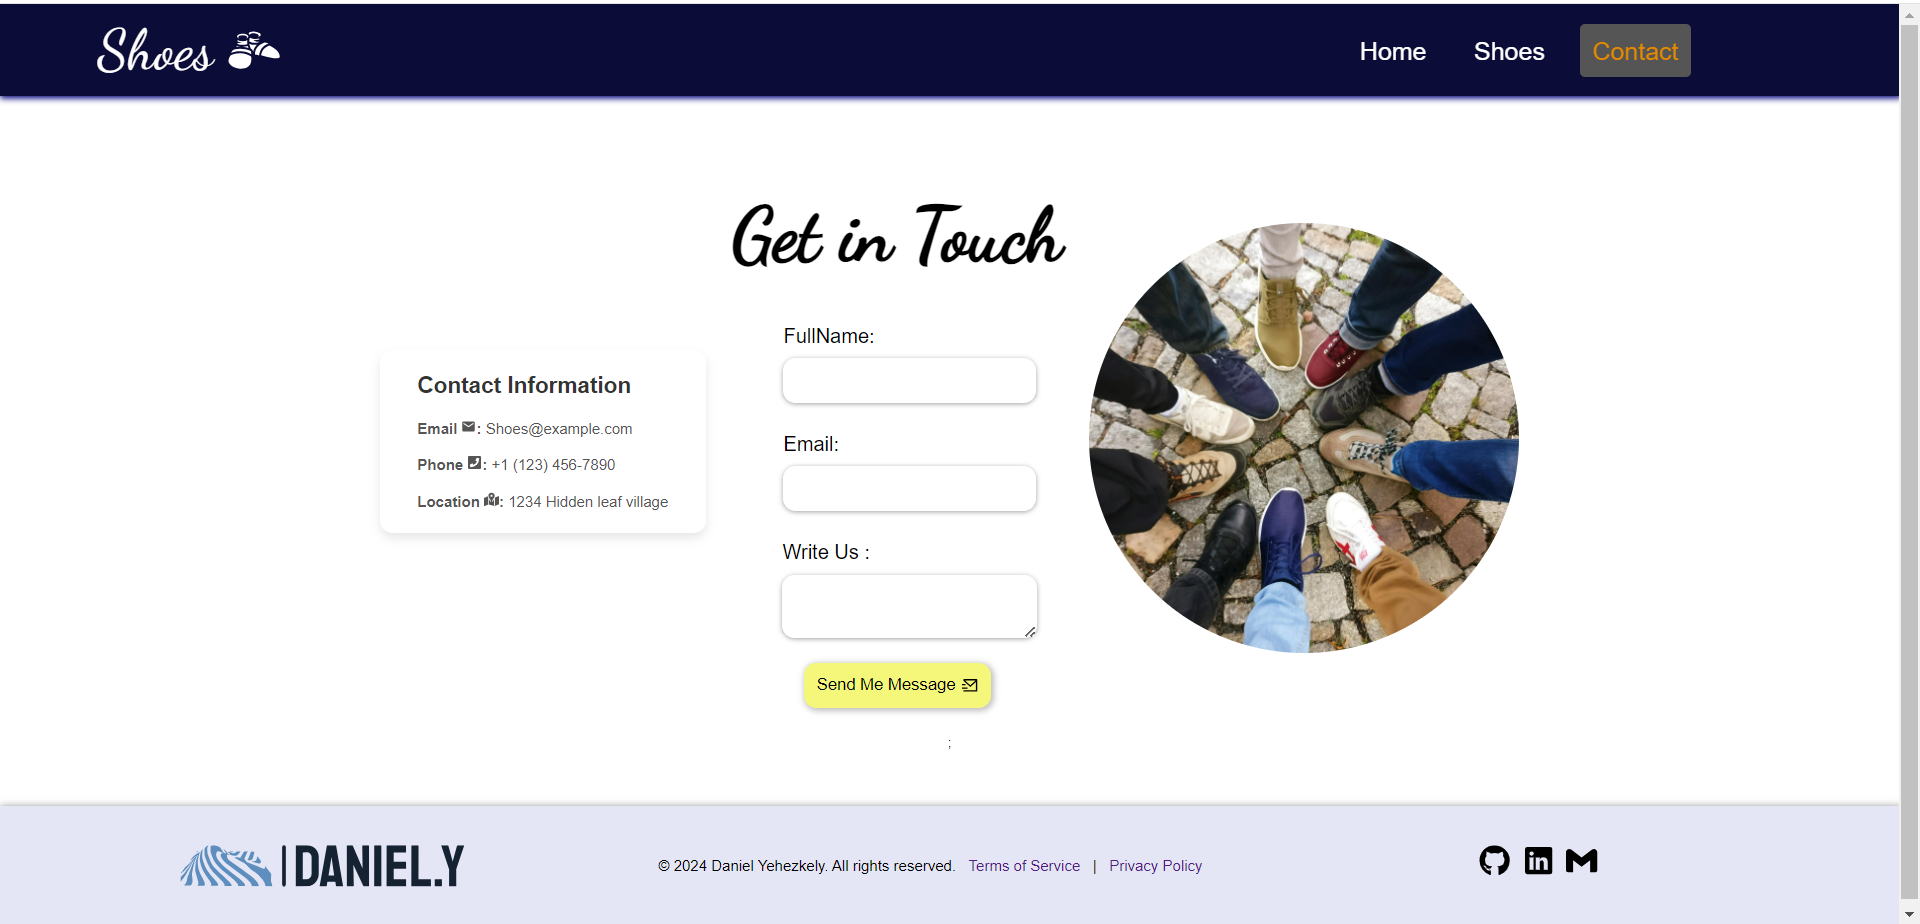
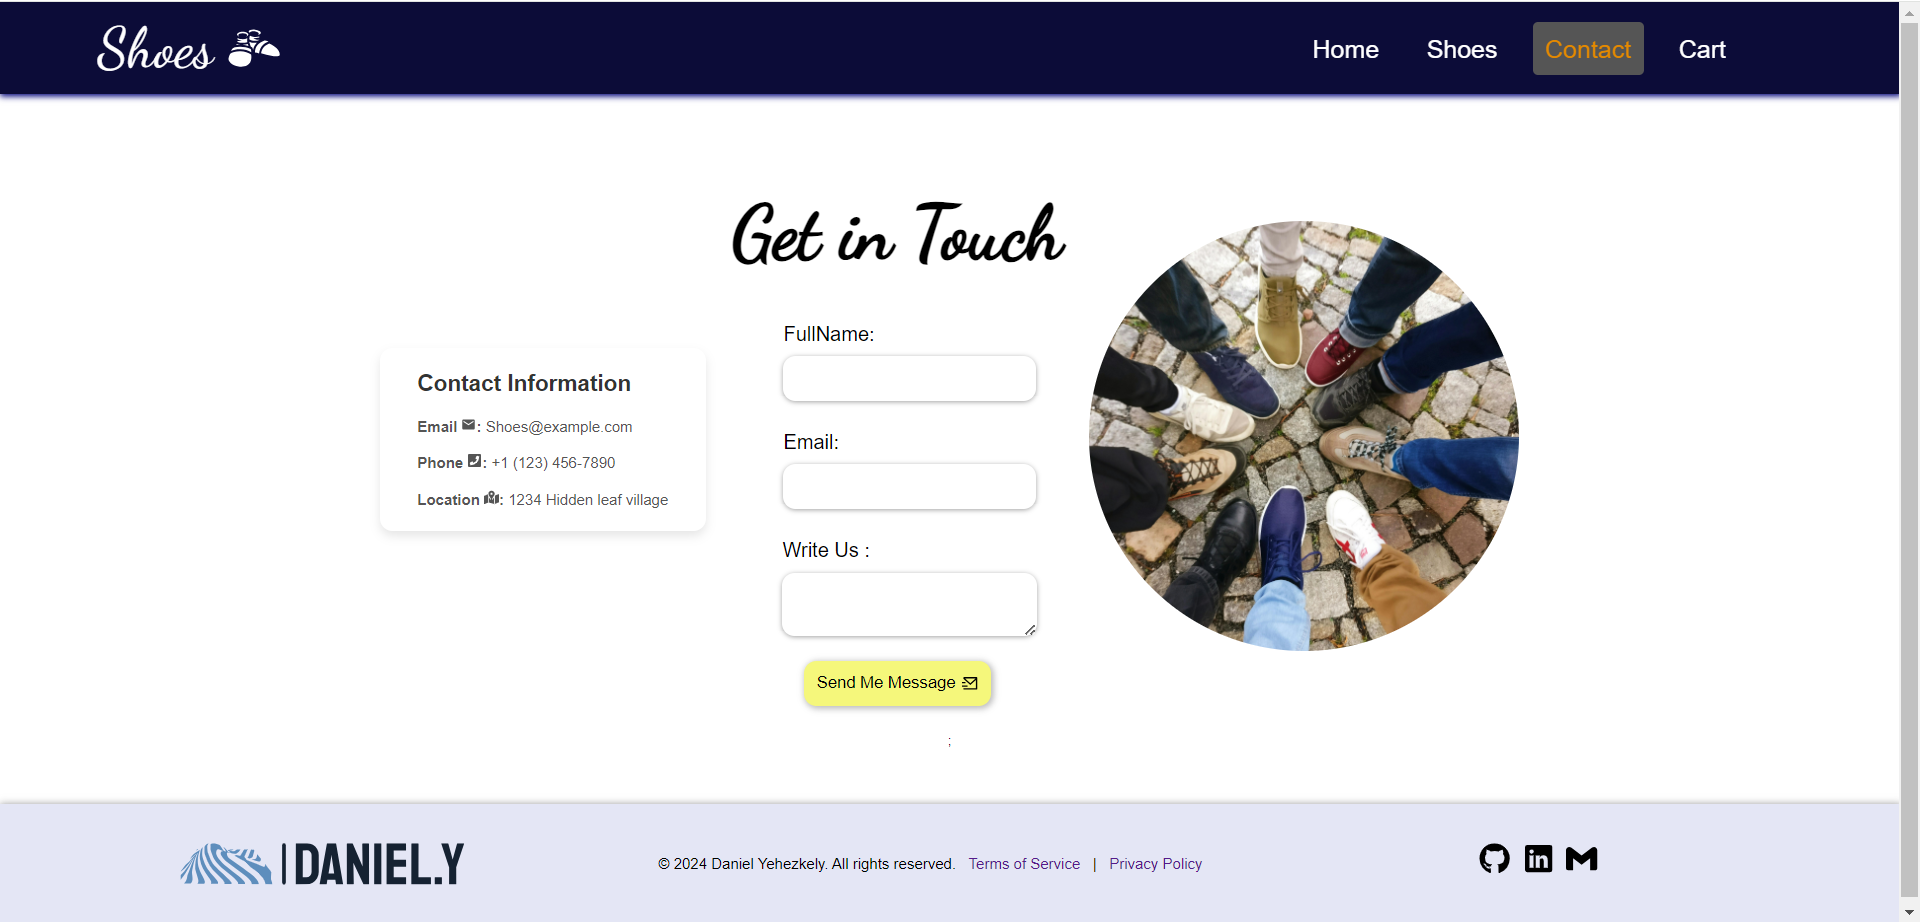
Adjusting readme according to changes, Done with the project

diff --git a/README.md b/README.md
@@ -44,6 +44,10 @@ The Shoe Store Management Application is a comprehensive web-based platform that
 5. **Routing and Navigation**
    - The application uses React Router to enable smooth navigation between the home, shop, and contact pages.
 
+6. **Shopping Cart**
+   - Users can add shoes to their cart from the shoe details page.
+   - The cart page displays all the added shoes with options to remove them.
+
 ### Enhanced Features:
 1. **CRUD Operations**
    - Admins can perform Create, Read, Update, and Delete operations on both shoes and user messages.
@@ -106,6 +110,11 @@ Visit `http://localhost:3000`
 4. **Admin Management Panel**:
 - Manage the shoe inventory by adding, editing, or deleting shoes.
 - Review and manage user messages, marking them as dealt with or deleting them.
+
+5. **Managing the Cart**:
+- Users can add shoes to their cart from the shoe details page by clicking the "Add to Cart" button.
+- Navigate to the cart page via the cart link in the navigation bar.
+- On the cart page, users can view all items added to their cart, and remove any item by clicking the "Remove" button.
 
 ## Environment Variables
 
@@ -272,6 +281,9 @@ Visit `http://localhost:3000`
 ***
 3. **Contact Page**
 ![Contact Page](/public/assets/readme-images/readme-users-contactPage.png)
+***
+4. **Cart Page**
+![Contact Page](/public/assets/readme-images/readme-users-cartPage.png)
 ***
 
 
